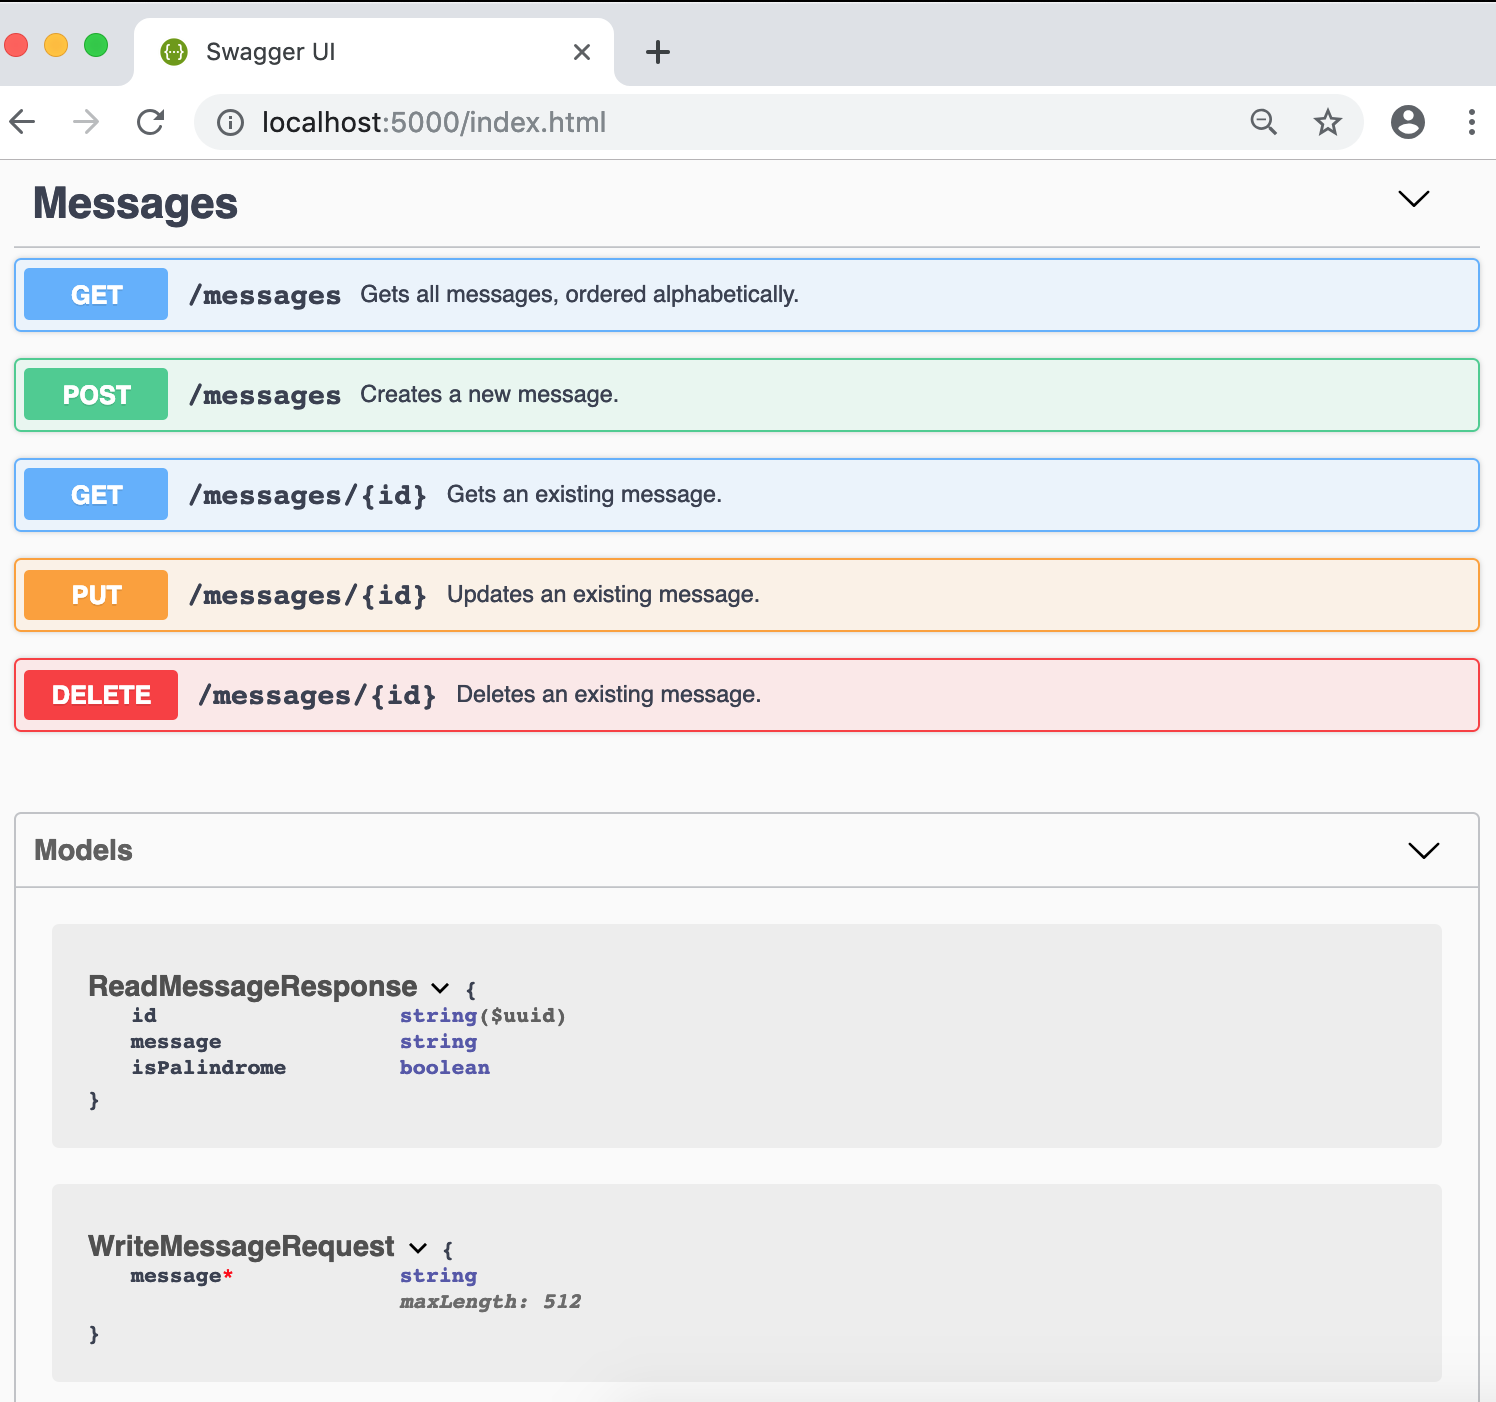
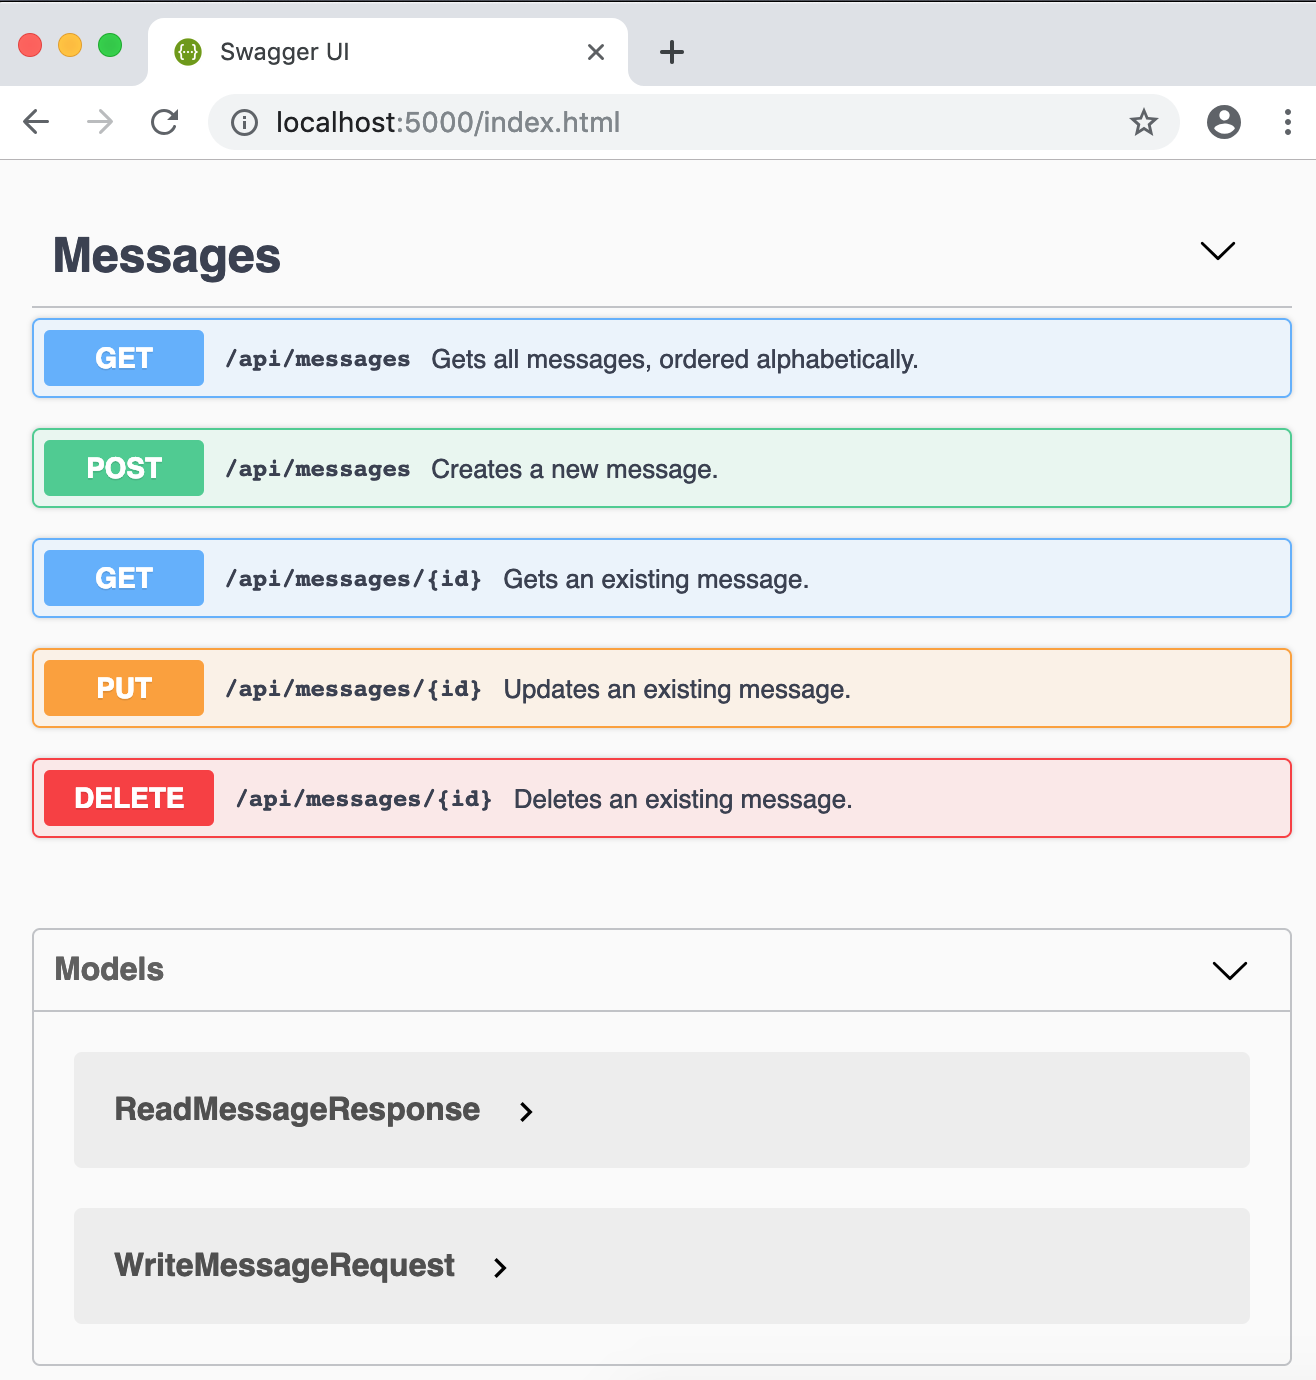
Updated README and image to reflect new api prefix

diff --git a/README.md b/README.md
@@ -16,7 +16,7 @@ different port.
 After the application starts, you should be able to navigate to `http://localhost:5000` in your web browser and invoke the API via cURL.
 
 ```console
-curl -X GET "http://localhost:5000/messages" --verbose --include
+curl -X GET "http://localhost:5000/api/messages" --verbose --include
 ```
 
 ## Run unit tests:
